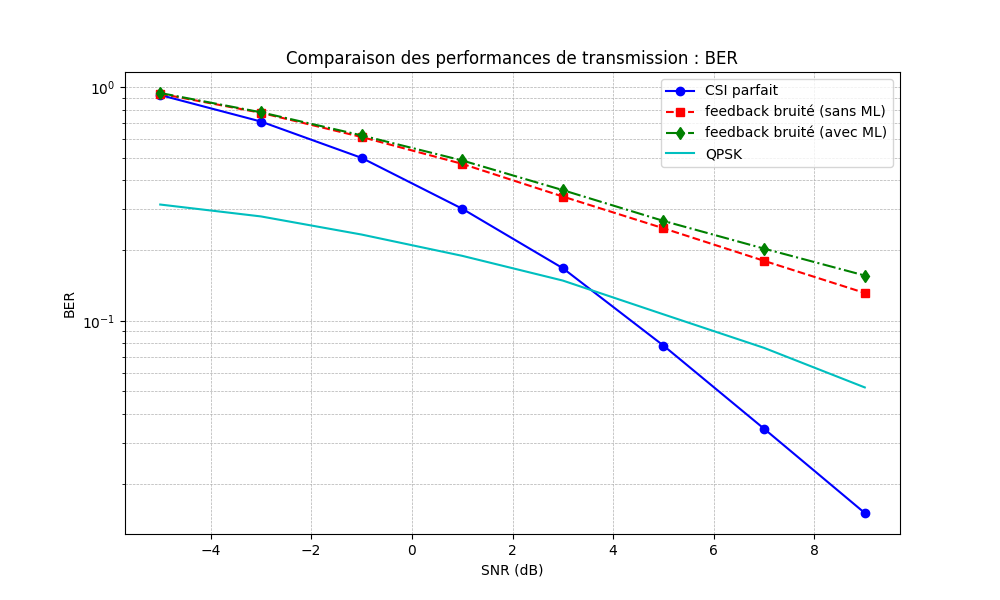
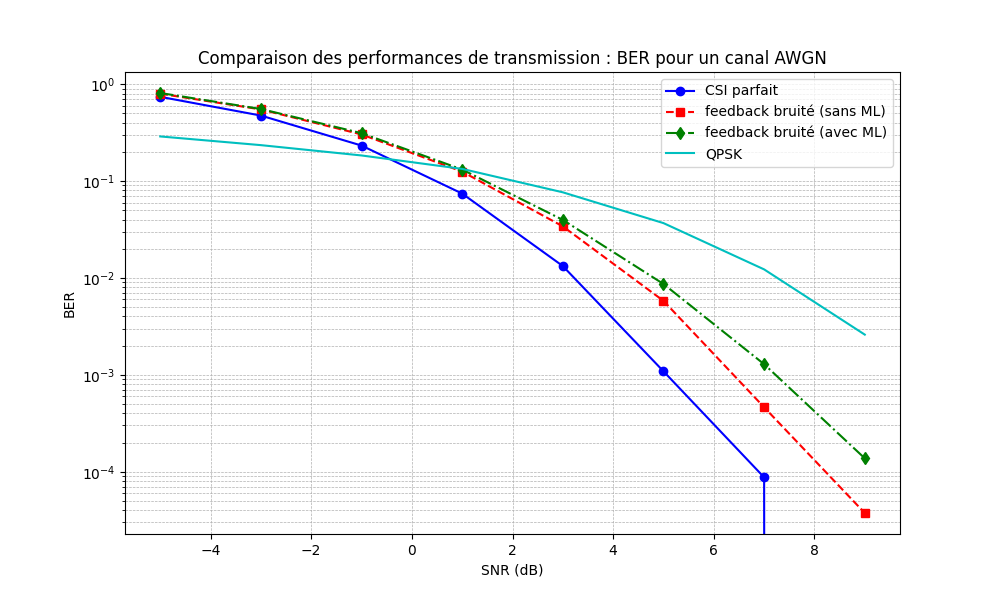
testing AWGN

Changed region(s): [[0.093, 0.06, 0.899, 0.9]]

diff --git a/evaluate.py b/evaluate.py
@@ -159,7 +159,7 @@ for snr in snr_values:
 
     # CSI parfait 
     print(" - Perfect CSI")
-    metrics = evaluate_autoencoder(encoder_perfect, decoder_perfect, m, n, k, snr, chann_type="Rayleigh", n_samples=n_samples, sigma_CSI=0.0, feedback_params=None)
+    metrics = evaluate_autoencoder(encoder_perfect, decoder_perfect, m, n, k, snr, chann_type=chann_type, n_samples=n_samples, sigma_CSI=0.0, feedback_params=None)
     for key in results['perfect']:
         results['perfect'][key].append(metrics[key])
 
@@ -170,18 +170,18 @@ for snr in snr_values:
         'compression_level': 4, 
         'delay': 2
     }
-    metrics = evaluate_autoencoder(encoder_feedback, decoder_feedback, m, n, k, snr, chann_type="Rayleigh", n_samples=n_samples, sigma_CSI=0.5, feedback_params=feedback_params)
+    metrics = evaluate_autoencoder(encoder_feedback, decoder_feedback, m, n, k, snr, chann_type=chann_type, n_samples=n_samples, sigma_CSI=0.5, feedback_params=feedback_params)
     for key in results['noisy']:
         results['noisy'][key].append(metrics[key])
 
     # Autoencodeur AVEC feedback bruité avec correction ML
     print(" - Noisy feedback (with ML)")
-    metrics = evaluate_autoencoder(encoder_ml, decoder_ml, m, n, k, snr, chann_type="Rayleigh", n_samples=n_samples, sigma_CSI=0.5, feedback_params=feedback_params, feedback_model=feedback_model)
+    metrics = evaluate_autoencoder(encoder_ml, decoder_ml, m, n, k, snr, chann_type=chann_type, n_samples=n_samples, sigma_CSI=0.5, feedback_params=feedback_params, feedback_model=feedback_model)
     for key in results['ml']:
         results['ml'][key].append(metrics[key])
     
     # QPSK
-    ber_qpsk.append(qpsk_communication(snr_db=snr, num_bits=n_samples, channel_type="Rayleigh"))
+    ber_qpsk.append(qpsk_communication(snr_db=snr, num_bits=n_samples, channel_type=chann_type))
 
 # Tracé BER vs SNR
 plt.figure(figsize=(10, 6))
@@ -191,7 +191,7 @@ plt.semilogy(snr_values, results['ml']['ber'], 'g-.d', label='feedback bruité (
 plt.semilogy(snr_values, ber_qpsk, 'c', label='QPSK')
 plt.xlabel('SNR (dB)')
 plt.ylabel('BER')
-plt.title('Comparaison des performances de transmission : BER')
+plt.title('Comparaison des performances de transmission : BER pour un canal ' + chann_type)
 plt.grid(True, which='both', linestyle='--', linewidth=0.5)
 plt.legend()
 plt.savefig(f"plots/{chann_type}_BER.png")
